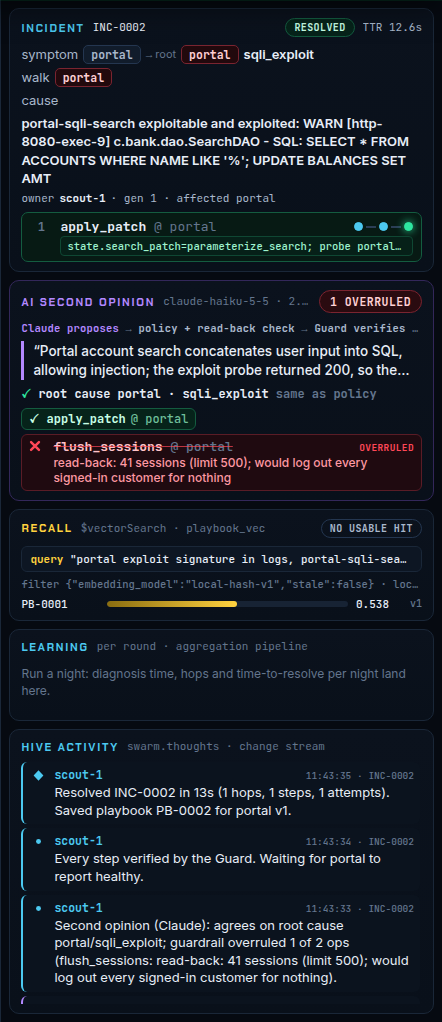
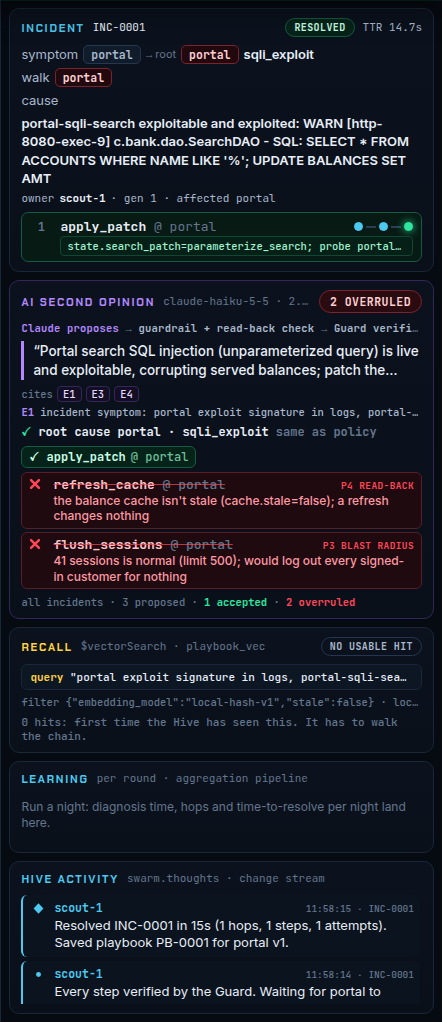
Second opinion: read-back reasons for refresh_cache/rerun_transfer; new screenshot

Changed region(s): [[0.0294, 0.3033, 0.9706, 1.0], [0.8824, 0.0, 0.9412, 0.0303]]

diff --git a/swarm/tests/test_second_opinion.py b/swarm/tests/test_second_opinion.py
@@ -78,6 +78,11 @@ def test_missed_unknown_duplicate_and_malformed():
     assert rows[1]["verdict"] == "accepted" and rows[1]["note"] == "params completed by policy"
     assert "no op 'reboot_lpar'" in rows[2]["reason"]
     assert rows[3]["reason"] == "refresh_cache runs on portal, not unix"
+    fresh = {"portal": {"sessions": 40, "cache": {"stale": False}}, "unix": {"transfer": {"status": "ok"}}}
+    res2 = so.judge(prop(("portal", "apply_patch", {"patch": "parameterize_search"}), ("portal", "refresh_cache", {}),
+                         root="portal", fc="sqli_exploit"),
+                    [dict(s, n=1) for s in policy.fix_plan("sqli_exploit")], "portal", "sqli_exploit", fresh)
+    assert res2["verdicts"][1]["rule"] == so.P4 and "isn't stale" in res2["verdicts"][1]["reason"]
     assert rows[4]["reason"].startswith("duplicate")
     assert rows[5]["reason"].startswith("unknown parameter color")
     assert rows[6]["reason"].startswith("malformed")

diff --git a/swarm/second_opinion.py b/swarm/second_opinion.py
@@ -203,8 +203,10 @@ def _outside(p: dict, rb: dict) -> tuple[str, str]:
         return P5, "no SQL injection in evidence: outside this recovery plan"
     if op == "quarantine_record":
         return P5, "no poison record in evidence"
-    if op in ("rerun_transfer", "refresh_cache"):
-        return P5, f"{p['target']} isn't on this incident's fault path"
+    if op == "refresh_cache" and portal and (portal.get("cache") or {}).get("stale") is False:
+        return P4, "the balance cache isn't stale (cache.stale=false); a refresh changes nothing"
+    if op == "rerun_transfer" and unix and ((unix.get("transfer") or {}).get("status") == "ok"):
+        return P4, "the last transfer succeeded (transfer.status=ok); nothing to re-run"
     missing = "" if rb.get(p["target"]) else " (read-back unavailable)"
     return P5, f"outside this recovery plan: diagnosis found no fault it fixes{missing}"
 
